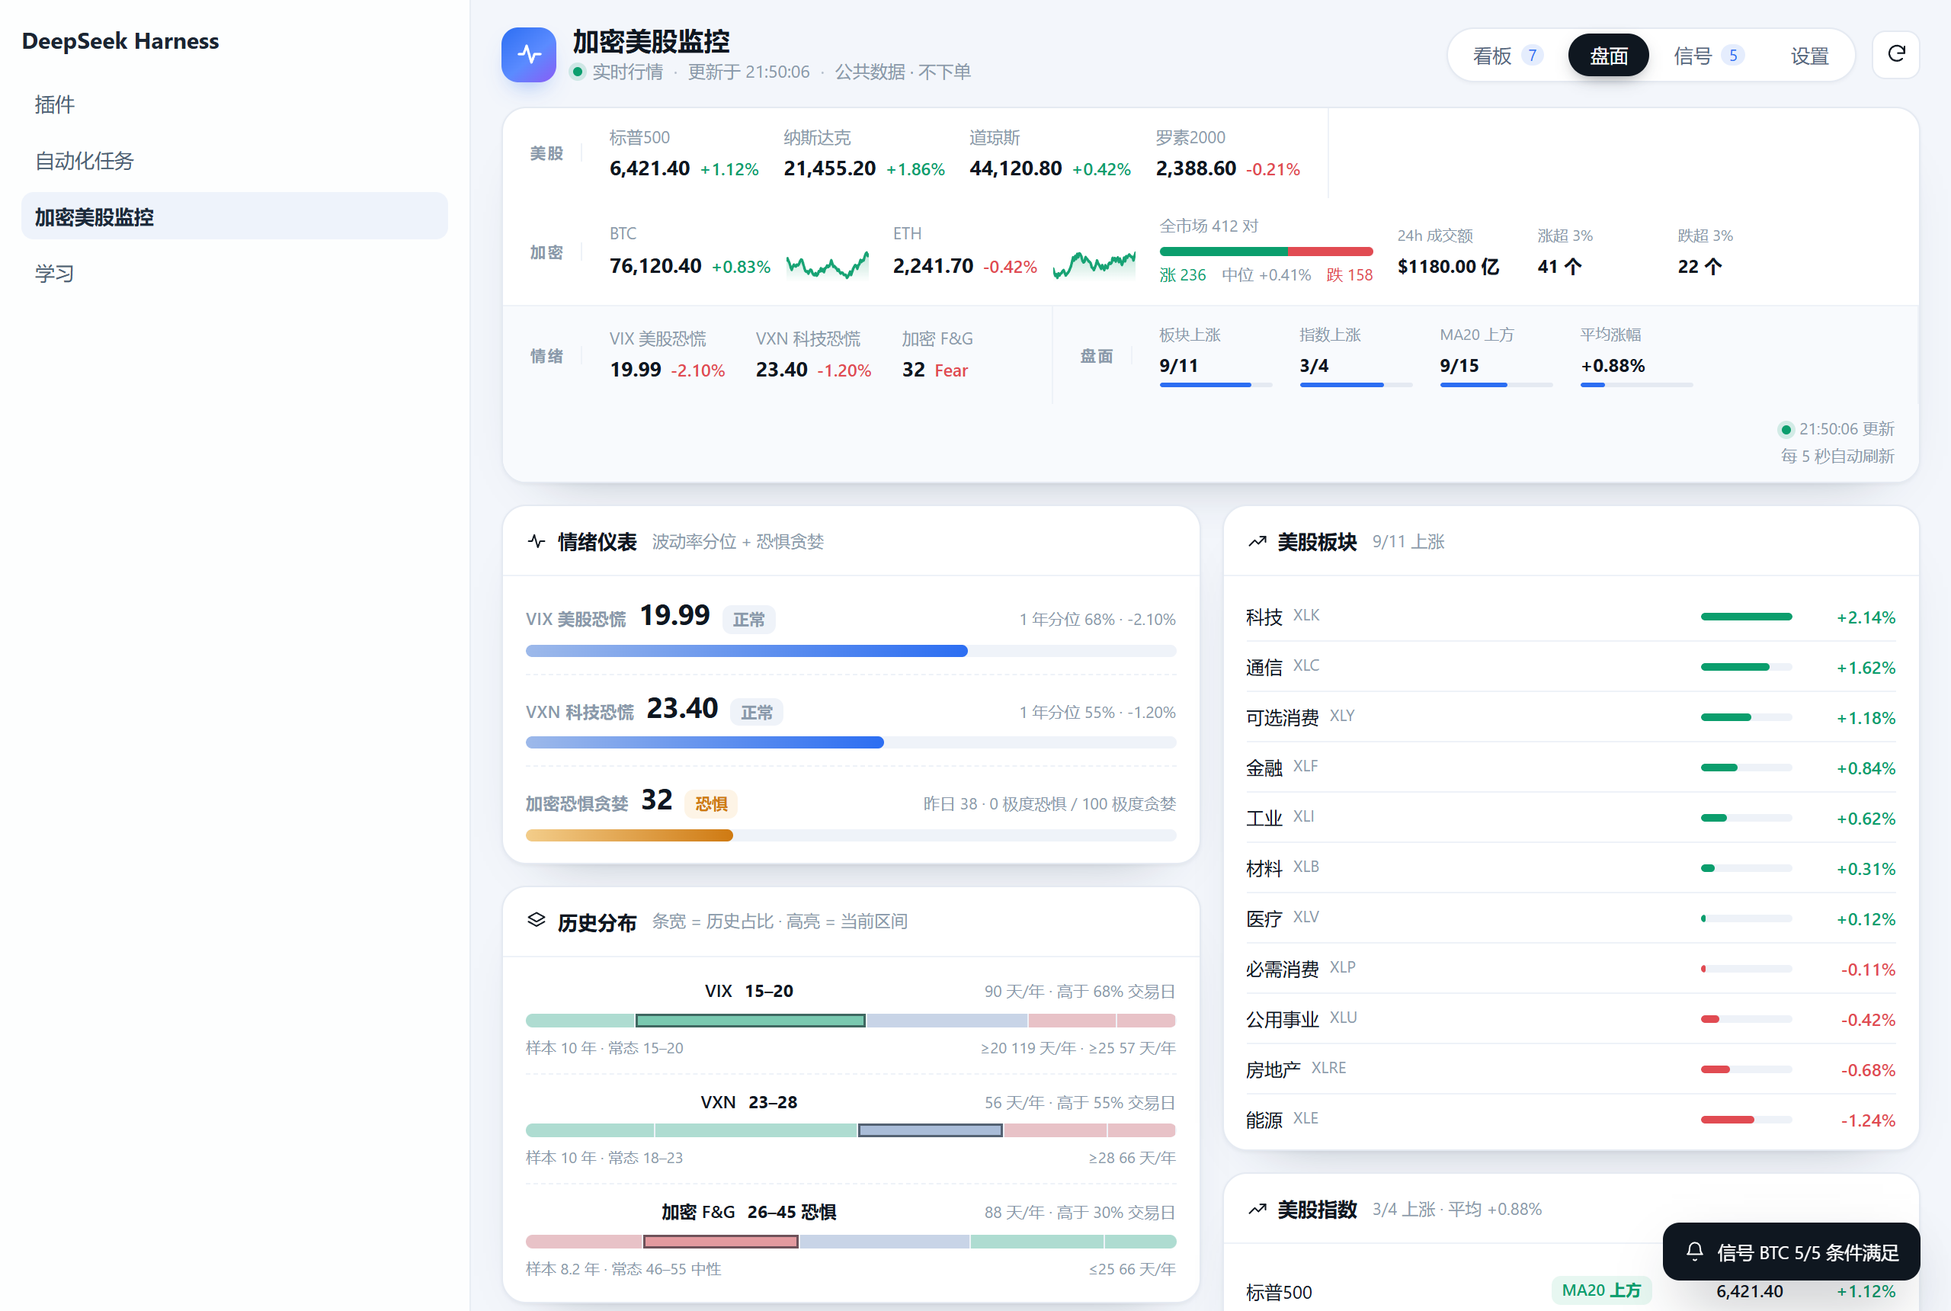
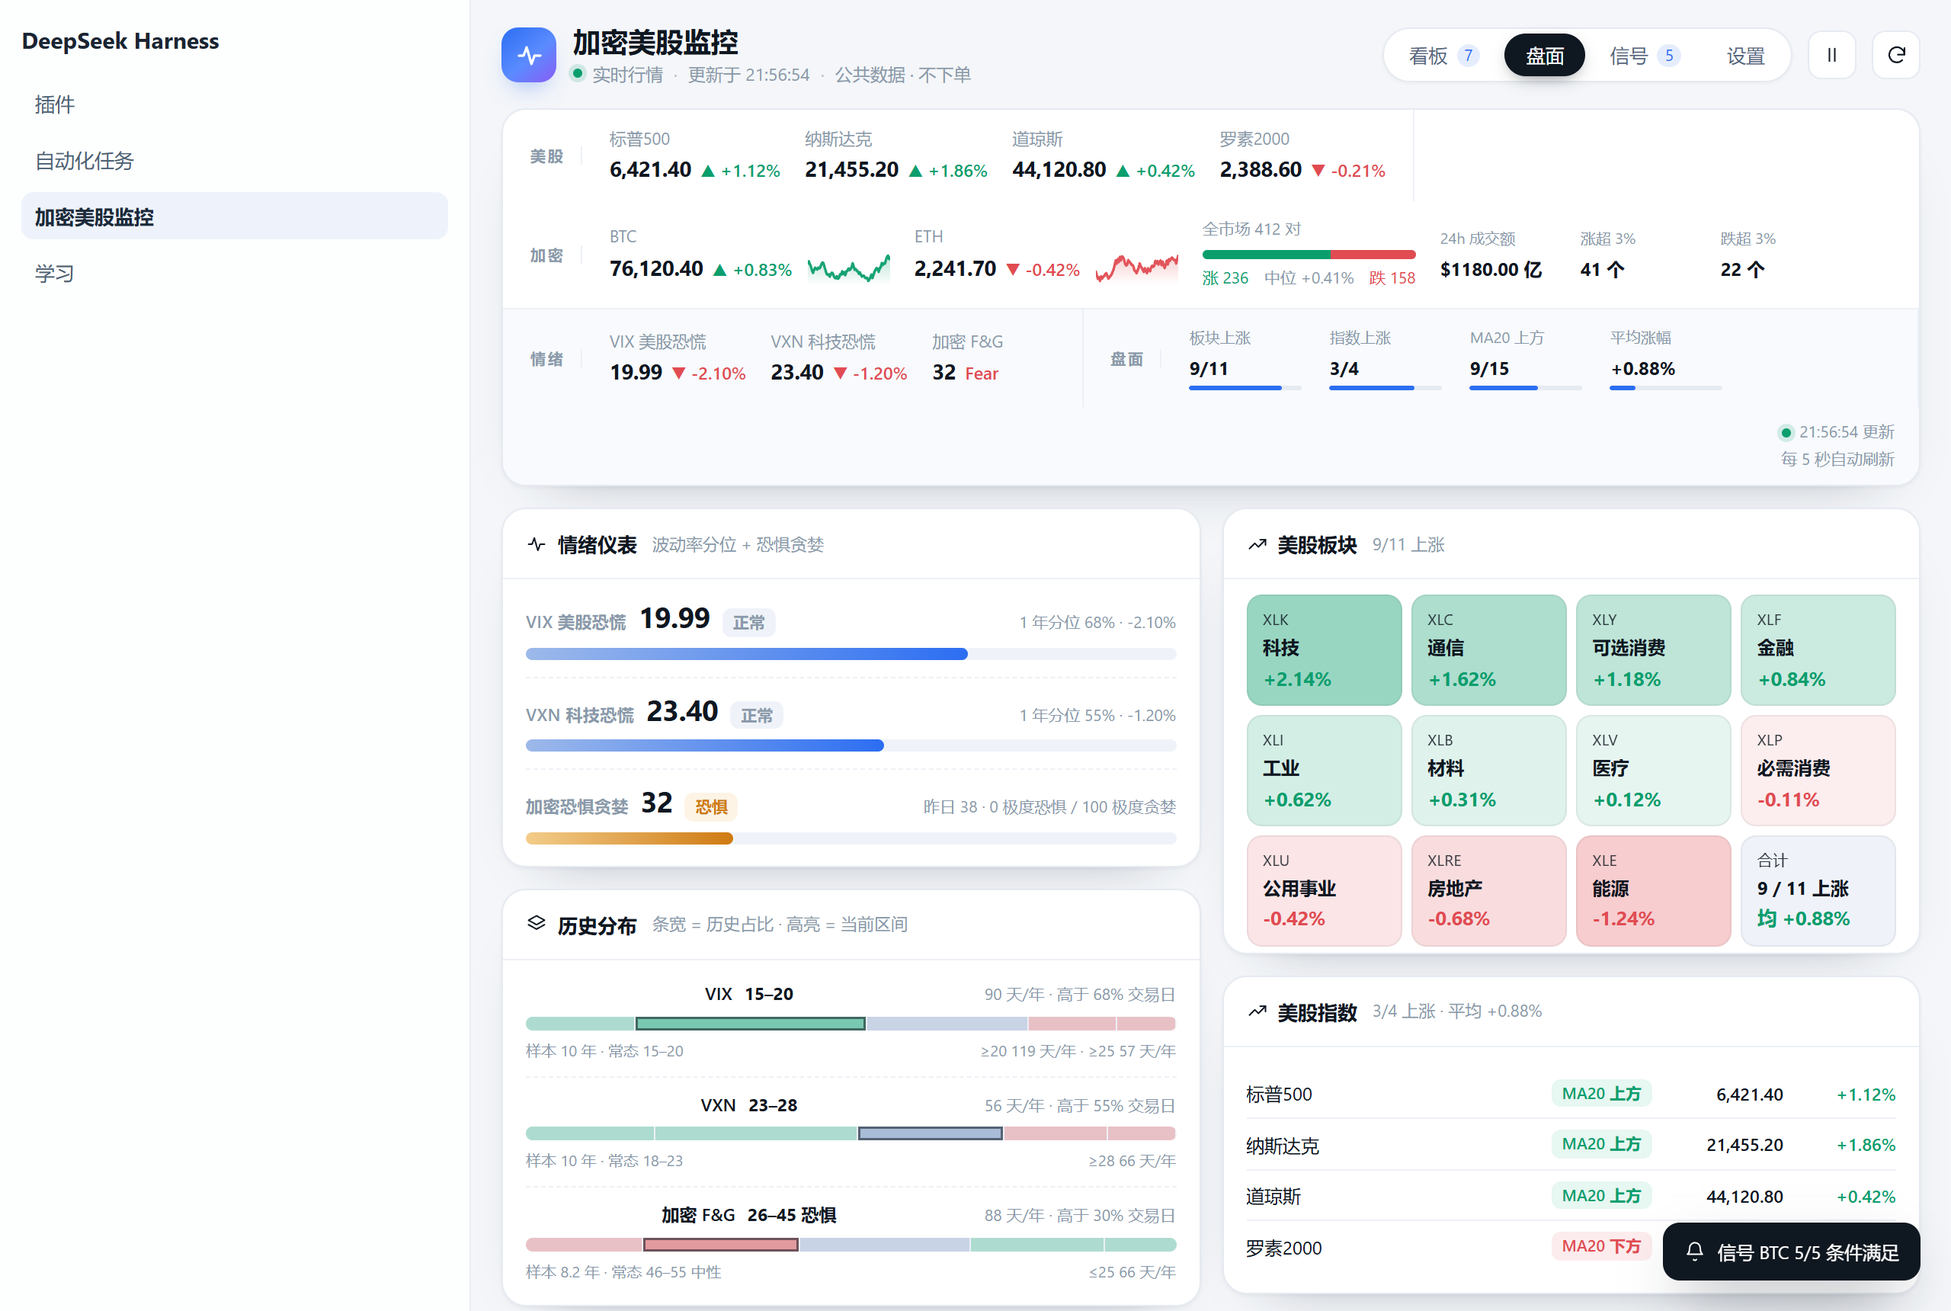
feat: 0.17.0 板块热力图、自选迷你走势、走势十字线、涨跌箭头与暂停刷新

diff --git a/lib/client.js b/lib/client.js
@@ -204,6 +204,11 @@ window.__ModuleLoader__.load({
 			const date = new Date(Number(ts));
 			return String(date.getHours()).padStart(2, "0") + ":" + String(date.getMinutes()).padStart(2, "0") + ":" + String(date.getSeconds()).padStart(2, "0");
 		}
+		function formatDay(ts) {
+			if (!Number.isFinite(Number(ts)) || Number(ts) <= 0) return "";
+			const date = new Date(Number(ts));
+			return String(date.getMonth() + 1).padStart(2, "0") + "-" + String(date.getDate()).padStart(2, "0");
+		}
 		function formatAge(ts) {
 			if (!Number.isFinite(Number(ts)) || Number(ts) <= 0) return "";
 			const seconds = Math.max(0, Math.round((Date.now() - Number(ts)) / 1000));
@@ -839,6 +844,28 @@ window.__ModuleLoader__.load({
 			".mn-mood-cols{display:block;column-count:2;column-gap:14px}",
 			".mn-mood-cols > .mn-card{break-inside:avoid;page-break-inside:avoid;-webkit-column-break-inside:avoid;display:inline-block;width:100%;margin:0 0 14px;vertical-align:top}",
 			"@media (max-width:980px){.mn-mood-cols{column-count:1}}",
+			"/* ---------- v0.17 refinements ---------- */",
+			".mn-root{--mn-bg:#f4f6f9;--mn-line:#e6eaf1;--mn-line-2:#edf0f6}",
+			".mn-brand-title{font-size:18px;letter-spacing:.005em}",
+			".mn-tk-price{font-size:14px;letter-spacing:-.02em}",
+			".mn-price{letter-spacing:-.03em}",
+			".mn-wl-row{grid-template-columns:minmax(0,1fr) 44px auto;padding-right:30px}",
+			".mn-wl-sym{grid-column:1;grid-row:1}",
+			".mn-wl-name{grid-column:1;grid-row:2}",
+			".mn-wl-spark{grid-column:2;grid-row:1 / span 2;align-self:center;width:44px;height:18px;opacity:.95}",
+			".mn-wl-price{grid-column:3;grid-row:1}",
+			".mn-wl-chg{grid-column:3;grid-row:2}",
+			".mn-wl-row:focus-visible{outline:2px solid var(--mn-accent);outline-offset:-2px}",
+			".mn-heat{display:grid;grid-template-columns:repeat(4,minmax(0,1fr));gap:6px}",
+			".mn-heat-tile{border-radius:10px;padding:8px 10px;display:flex;flex-direction:column;gap:3px;min-height:60px;justify-content:space-between;border:1px solid rgba(15,23,32,.06)}",
+			".mn-heat-tile b{font-size:12px;font-weight:650;line-height:1.2}",
+			".mn-heat-tile span{font-size:10px;opacity:.85;letter-spacing:.02em}",
+			".mn-heat-tile em{font-style:normal;font-variant-numeric:tabular-nums;font-weight:700;font-size:13px;letter-spacing:-.02em}",
+			".mn-chart-dot{pointer-events:none}",
+			".mn-chart-tip{position:absolute;top:8px;right:10px;background:var(--mn-fg);color:#fff;border-radius:7px;padding:3px 8px;font-size:10.5px;font-variant-numeric:tabular-nums;pointer-events:none;z-index:2;white-space:nowrap}",
+			".mn-chart-hint{position:absolute;bottom:6px;right:10px;font-size:10px;color:var(--mn-fg-3);pointer-events:none}",
+			"@media (max-width:1180px){.mn-heat{grid-template-columns:repeat(3,minmax(0,1fr))}}",
+			"@media (max-width:700px){.mn-heat{grid-template-columns:repeat(2,minmax(0,1fr))}}",
 		].join("\n");
 
 
@@ -880,7 +907,9 @@ window.__ModuleLoader__.load({
 				coin: ["M12 21a9 9 0 1 0 0-18 9 9 0 0 0 0 18z", "M12 7v10", "M14.5 9.5a2.5 2.5 0 0 0-5 0c0 3 5 1.5 5 4.5a2.5 2.5 0 0 1-5 0"],
 				sliders: ["M4 6h10", "M18 6h2", "M4 12h4", "M12 12h8", "M4 18h10", "M18 18h2", "M16 4v4", "M8 10v4", "M16 16v4"],
 				inbox: ["M4 13l2-8h12l2 8v6H4v-6z", "M4 13h5l1 2h4l1-2h5"],
-				warn: ["M12 4l9 16H3l9-16z", "M12 10v4", "M12 17.2v.1"]
+				warn: ["M12 4l9 16H3l9-16z", "M12 10v4", "M12 17.2v.1"],
+				pause: ["M9 5v14", "M15 5v14"],
+				play: ["M8 5l11 7-11 7V5z"]
 			};
 
 			function Icon(props) {
@@ -936,7 +965,7 @@ window.__ModuleLoader__.load({
 				const coords = points.map((value, index) => [index * stepX, pad + usable - ((value - min) / span) * usable]);
 				const line = coords.map((pair, index) => (index === 0 ? "M" : "L") + pair[0].toFixed(2) + " " + pair[1].toFixed(2)).join(" ");
 				const area = line + " L" + width + " " + height + " L0 " + height + " Z";
-				const up = points[points.length - 1] >= points[0];
+				const up = props.tone ? props.tone === "up" : points[points.length - 1] >= points[0];
 				const color = up ? "var(--mn-up)" : "var(--mn-down)";
 				return h("svg", {
 					width: width,
@@ -957,14 +986,19 @@ window.__ModuleLoader__.load({
 
 			function DetailChart(props) {
 				const points = Array.isArray(props.points) ? props.points.filter((value) => Number.isFinite(Number(value))).map(Number) : [];
+				const times = Array.isArray(props.times) ? props.times : [];
 				const ma = Array.isArray(props.ma) ? props.ma : [];
+				const [hover, setHover] = useState(null);
 				const width = 720;
 				const height = 168;
 				const padY = 14;
 				if (points.length < 3) {
-					return h("div", { className: "mn-empty", style: { padding: "28px 16px" } },
-						h(Icon, { name: "pulse", size: 18 }),
-						h("span", null, "走势数据加载中"));
+					return h("div", { className: "mn-chart", style: { padding: "20px 18px 16px" } },
+						h("div", { className: "mn-loading" },
+							h("div", { className: "mn-skel", style: { width: "64%" } }),
+							h("div", { className: "mn-skel", style: { width: "100%", height: "52px" } }),
+							h("div", { className: "mn-skel", style: { width: "42%" } })),
+						h("span", { className: "mn-hint", style: { display: "block", marginTop: "10px" } }, "走势数据加载中…"));
 				}
 				const all = points.concat(ma.filter((value) => Number.isFinite(Number(value))));
 				const min = Math.min.apply(null, all);
@@ -977,18 +1011,48 @@ window.__ModuleLoader__.load({
 				const maLine = ma.length > 1 ? ma.map((value, index) => (index === 0 ? "M" : "L") + x(index + (points.length - ma.length)).toFixed(1) + " " + y(value).toFixed(1)).join(" ") : "";
 				const up = points[points.length - 1] >= points[0];
 				const color = up ? "var(--mn-up)" : "var(--mn-down)";
+				const hoverIndex = hover === null ? null : Math.max(0, Math.min(points.length - 1, hover));
+				const tooltip = hoverIndex === null
+					? ""
+					: (times[hoverIndex] ? formatDay(times[hoverIndex]) + " · " : "") + formatPrice(points[hoverIndex]);
+				const onMove = (event) => {
+					const rect = event.currentTarget.getBoundingClientRect();
+					if (!rect || !rect.width) return;
+					const ratio = Math.max(0, Math.min(1, (event.clientX - rect.left) / rect.width));
+					setHover(Math.round(ratio * (points.length - 1)));
+				};
 				return h("div", { className: "mn-chart" },
 					h("div", { className: "mn-chart-legend" },
 						h("span", null, h("i", { style: { background: color } }), "收盘"),
 						maLine ? h("span", null, h("i", { style: { background: "var(--mn-warn)", opacity: 0.8 } }), "MA20") : null),
-					h("svg", { viewBox: "0 0 " + width + " " + height, preserveAspectRatio: "none", style: { height: 168 } },
+					h("svg", {
+						viewBox: "0 0 " + width + " " + height,
+						preserveAspectRatio: "none",
+						style: { height: 168, cursor: "crosshair" },
+						onMouseMove: onMove,
+						onMouseLeave: () => setHover(null)
+					},
 						h("defs", null,
 							h("linearGradient", { id: "mn-chart-fill", x1: "0", y1: "0", x2: "0", y2: "1" },
 								h("stop", { offset: "0%", stopColor: color, stopOpacity: "0.2" }),
 								h("stop", { offset: "100%", stopColor: color, stopOpacity: "0" }))),
 						h("path", { d: area, fill: "url(#mn-chart-fill)", stroke: "none" }),
 						maLine ? h("path", { d: maLine, fill: "none", stroke: "var(--mn-warn)", strokeWidth: "1.2", strokeDasharray: "4 3", opacity: "0.85" }) : null,
-						h("path", { d: line, fill: "none", stroke: color, strokeWidth: "1.8", strokeLinejoin: "round", strokeLinecap: "round" })));
+						h("path", { d: line, fill: "none", stroke: color, strokeWidth: "1.8", strokeLinejoin: "round", strokeLinecap: "round" }),
+						hoverIndex === null
+							? null
+							: h("line", {
+								x1: x(hoverIndex), x2: x(hoverIndex), y1: 0, y2: height,
+								stroke: "var(--mn-fg-3)", strokeWidth: "0.8", strokeDasharray: "3 3", opacity: "0.75"
+							}),
+						hoverIndex === null
+							? null
+							: h("circle", {
+								cx: x(hoverIndex), cy: y(points[hoverIndex]), r: 3.4,
+								fill: "var(--mn-card)", stroke: color, strokeWidth: 1.8
+							})),
+					tooltip ? h("div", { className: "mn-chart-tip" }, tooltip) : null,
+					h("div", { className: "mn-chart-hint" }, "悬停查看每日收盘"));
 			}
 
 			function Empty(props) {
@@ -1008,10 +1072,11 @@ window.__ModuleLoader__.load({
 					h("span", { className: "mn-tk-line" },
 						h("b", { className: "mn-tk-price" }, props.price),
 						Number.isFinite(Number(props.change))
-							? h("span", { className: "mn-tk-chg " + (tone === "up" ? "mn-up" : tone === "down" ? "mn-down" : "mn-flat") }, formatPct(props.change, 2))
+							? h("span", { className: "mn-tk-chg " + (tone === "up" ? "mn-up" : tone === "down" ? "mn-down" : "mn-flat") },
+								(tone === "up" ? "▲ " : tone === "down" ? "▼ " : "") + formatPct(props.change, 2))
 							: null,
 						props.spark && props.spark.length > 1
-							? h(Sparkline, { points: props.spark, className: "mn-tk-spark", width: 46, height: 16 })
+							? h(Sparkline, { points: props.spark, className: "mn-tk-spark", width: 46, height: 16, tone: tone })
 							: null));
 			}
 
@@ -1119,7 +1184,6 @@ window.__ModuleLoader__.load({
 							h("span", null, props.busy ? "刷新中…" : "每 " + Math.round((props.interval || 5000) / 1000) + " 秒自动刷新"))));
 			}
 
-
 			// ---------------- watchlist ----------------
 
 			function WatchRow(props) {
@@ -1150,6 +1214,9 @@ window.__ModuleLoader__.load({
 							}, row.analysis.label)
 							: null),
 					h("span", { className: "mn-wl-name" }, row.sub),
+					props.spark && props.spark.length > 1
+						? h(Sparkline, { points: props.spark, className: "mn-wl-spark", width: 44, height: 18, tone: tone })
+						: null,
 					h("span", { className: "mn-wl-price" }, formatPrice(row.price)),
 					h("span", { className: "mn-wl-chg " + (tone === "up" ? "mn-up" : tone === "down" ? "mn-down" : "mn-flat") }, formatPct(row.change, 2)),
 					h("button", {
@@ -1194,9 +1261,11 @@ window.__ModuleLoader__.load({
 					if (!items.length) continue;
 					body.push(groupHead(group.label, items.length));
 					for (const row of items) {
+						const entry = props.series ? props.series[row.key] : null;
 						body.push(h(WatchRow, {
 							key: row.key,
 							row: row,
+							spark: entry && Array.isArray(entry.closes) ? entry.closes : null,
 							active: props.selectedKey === row.key,
 							showSignals: props.showSignals,
 							onSelect: () => props.onSelect(row.key),
@@ -1398,7 +1467,11 @@ window.__ModuleLoader__.load({
 								title: "移除自选",
 								onClick: props.onRemove
 							}, h(Icon, { name: "trash", size: 14 })))),
-					h(DetailChart, { points: closes, ma: ma20 }),
+					h(DetailChart, {
+						points: closes,
+						ma: ma20,
+						times: props.series && Array.isArray(props.series.times) ? props.series.times : []
+					}),
 					h("div", { className: "mn-metrics" },
 						h(Metric, {
 							label: "RSI " + (props.settings ? props.settings.rsiPeriod : 14),
@@ -1690,14 +1763,30 @@ window.__ModuleLoader__.load({
 						h("div", { className: "mn-card-body", "data-flush": "true" },
 							h("div", { style: { padding: "10px 15px 4px" } },
 								sectors.length
-									? h("div", { className: "mn-rows" }, sectors.map((row) => {
+									? h("div", { className: "mn-heat" }, sectors.map((row) => {
 										const tone = changeTone(row.changePct);
-										const width = Math.max(4, (Math.abs(Number(row.changePct) || 0) / maxSector) * 100);
-										return h("div", { className: "mn-row", key: row.symbol },
-											h("span", { className: "mn-row-name" }, row.name || row.symbol, h("span", { className: "mn-hint" }, row.symbol)),
-											h("span", { className: "mn-row-bar" }, h("i", { style: { width: width + "%", background: tone === "up" ? "var(--mn-up)" : "var(--mn-down)" } })),
-											h("span", { className: "mn-row-value " + (tone === "up" ? "mn-up" : tone === "down" ? "mn-down" : "mn-flat") }, formatPct(row.changePct, 2)));
-									}))
+										const strength = Math.min(1, Math.abs(Number(row.changePct) || 0) / maxSector);
+										const alpha = 0.08 + strength * 0.34;
+										const bg = tone === "up"
+											? "rgba(11,158,109," + alpha.toFixed(3) + ")"
+											: tone === "down"
+												? "rgba(225,75,82," + alpha.toFixed(3) + ")"
+												: "var(--mn-card-3)";
+										return h("div", {
+											className: "mn-heat-tile",
+											key: row.symbol,
+											style: { background: bg },
+											title: (row.name || row.symbol) + " · " + row.symbol + " · " + formatPrice(row.price)
+										},
+											h("span", null, row.symbol),
+											h("b", null, row.name || row.symbol),
+											h("em", { className: tone === "up" ? "mn-up" : tone === "down" ? "mn-down" : "mn-flat" }, formatPct(row.changePct, 2)));
+									}).concat([
+										h("div", { className: "mn-heat-tile", key: "summary", style: { background: "var(--mn-card-3)" } },
+											h("span", null, "合计"),
+											h("b", null, stock.sectorUp + " / " + stock.sectorCount + " 上涨"),
+											h("em", { className: changeTone(stock.avgChangePct) === "up" ? "mn-up" : changeTone(stock.avgChangePct) === "down" ? "mn-down" : "mn-flat" }, "均 " + formatPct(stock.avgChangePct, 2)))
+									]))
 									: h("span", { className: "mn-hint" }, "板块数据加载中…")))),
 					h("section", { className: "mn-card" },
 						h("div", { className: "mn-card-head" },
@@ -2066,6 +2155,7 @@ window.__ModuleLoader__.load({
 				const [query, setQuery] = useState("");
 				const [results, setResults] = useState([]);
 				const [busy, setBusy] = useState(false);
+				const [paused, setPaused] = useState(false);
 				const [error, setError] = useState("");
 				const [toast, setToast] = useState("");
 				const [theme, setTheme] = useState(detectTheme);
@@ -2161,6 +2251,7 @@ window.__ModuleLoader__.load({
 					alive.current = true;
 					void load(false);
 					const timer = window.setInterval(() => {
+						if (paused) return;
 						if (document.visibilityState === "visible") void load(false);
 					}, settings.interval);
 					const onVisible = () => {
@@ -2180,7 +2271,7 @@ window.__ModuleLoader__.load({
 						window.removeEventListener("focus", onVisible);
 						window.clearTimeout(toastTimer.current);
 					};
-				}, [settings.interval, load]);
+				}, [settings.interval, load, paused]);
 
 				useEffect(() => {
 					persistSettings(settings);
@@ -2521,8 +2612,8 @@ window.__ModuleLoader__.load({
 						h("div", null,
 							h("div", { className: "mn-brand-title" }, "加密美股监控"),
 							h("div", { className: "mn-brand-sub" },
-								h("i", { className: "mn-dot", "data-state": error ? "down" : busy ? "warn" : "ok" }),
-								h("span", null, error ? "连接异常" : busy ? "刷新中" : "实时行情"),
+								h("i", { className: "mn-dot", "data-state": error ? "down" : paused || busy ? "warn" : "ok" }),
+								h("span", null, error ? "连接异常" : paused ? "已暂停刷新" : busy ? "刷新中" : "实时行情"),
 								h("span", { style: { opacity: 0.6 } }, "·"),
 								h("span", null, quotes.ts ? "更新于 " + formatClock(quotes.ts) : "正在连接"),
 								h("span", { style: { opacity: 0.6 } }, "·"),
@@ -2544,6 +2635,13 @@ window.__ModuleLoader__.load({
 							type: "button",
 							className: "mn-btn",
 							"data-size": "icon",
+							title: paused ? "继续自动刷新" : "暂停自动刷新",
+							onClick: () => setPaused(!paused)
+						}, h(Icon, { name: paused ? "play" : "pause", size: 14 })),
+						h("button", {
+							type: "button",
+							className: "mn-btn",
+							"data-size": "icon",
 							title: "立即刷新",
 							disabled: busy,
 							onClick: () => void load(true)
@@ -2554,6 +2652,7 @@ window.__ModuleLoader__.load({
 					body = h("div", { className: "mn-board" },
 						h(Watchlist, {
 							rows: visibleRows,
+							series: series,
 							selectedKey: selected ? selected.key : null,
 							filter: filter,
 							setFilter: setFilter,

diff --git a/lib/index.js b/lib/index.js
@@ -809,6 +809,7 @@ async function fetchBinanceKlines(symbol, limit) {
 	const lows = [];
 	const opens = [];
 	const volumes = [];
+	const times = [];
 	for (const row of list) {
 		const open = numberOrNull(row?.[1]);
 		const high = numberOrNull(row?.[2]);
@@ -821,9 +822,10 @@ async function fetchBinanceKlines(symbol, limit) {
 		lows.push(low);
 		closes.push(close);
 		volumes.push(volume);
+		times.push(numberOrNull(row?.[0]));
 	}
 	if (closes.length === 0) throw new Error("klines-empty");
-	return { closes, highs, lows, opens, volumes };
+	return { closes, highs, lows, opens, volumes, times };
 }
 
 function fetchCryptoBars(symbol, limit) {
@@ -841,11 +843,13 @@ async function fetchYahooChart(symbol, range = "6mo") {
 		if (!meta) throw new Error("yahoo-chart-empty");
 		const quote = result?.indicators?.quote?.[0] ?? {};
 		const rawCloses = Array.isArray(quote.close) ? quote.close : [];
+		const stamps = Array.isArray(result.timestamp) ? result.timestamp : [];
 		const closes = [];
 		const highs = [];
 		const lows = [];
 		const opens = [];
 		const volumes = [];
+		const times = [];
 		for (let index = 0; index < rawCloses.length; index += 1) {
 			const close = numberOrNull(rawCloses[index]);
 			const high = numberOrNull(quote.high?.[index]);
@@ -856,8 +860,10 @@ async function fetchYahooChart(symbol, range = "6mo") {
 			lows.push(low);
 			opens.push(numberOrNull(quote.open?.[index]));
 			volumes.push(numberOrNull(quote.volume?.[index]));
+			const stamp = numberOrNull(stamps[index]);
+			times.push(stamp === null ? null : stamp * 1000);
 		}
-		return { meta, closes, opens, highs, lows, volumes };
+		return { meta, closes, opens, highs, lows, volumes, times };
 	}));
 }
 
@@ -1648,7 +1654,7 @@ function seriesRoute() {
 					try {
 						const bars = await fetchCryptoBars(symbol, Math.max(limit, MIN_BARS));
 						if (!bars) return null;
-						return ["crypto:" + symbol, { closes: bars.closes.slice(-limit) }];
+						return ["crypto:" + symbol, { closes: bars.closes.slice(-limit), times: (bars.times ?? []).slice(-limit) }];
 					} catch {
 						return null;
 					}
@@ -1660,7 +1666,7 @@ function seriesRoute() {
 					try {
 						const chart = await fetchYahooChart(symbol, range);
 						if (!chart) return null;
-						return ["stock:" + symbol, { closes: chart.closes.slice(-limit) }];
+						return ["stock:" + symbol, { closes: chart.closes.slice(-limit), times: (chart.times ?? []).slice(-limit) }];
 					} catch {
 						return null;
 					}

diff --git a/AGENTS.md b/AGENTS.md
@@ -21,6 +21,7 @@ curl -s "$DSH_BASE_URL/plugins/dsh-crypto-us-stock-monitor/api/market"
 curl -s "$DSH_BASE_URL/plugins/dsh-crypto-us-stock-monitor/api/search?q=nvda"
 
 # 迷你走势序列（面板用它画 60 日走势，复用日线缓存）
+# 返回 { closes, times }，times 为毫秒时间戳
 curl -s "$DSH_BASE_URL/plugins/dsh-crypto-us-stock-monitor/api/series?symbols=BTCUSDT&stocks=NVDA&limit=80"
 ```
 
